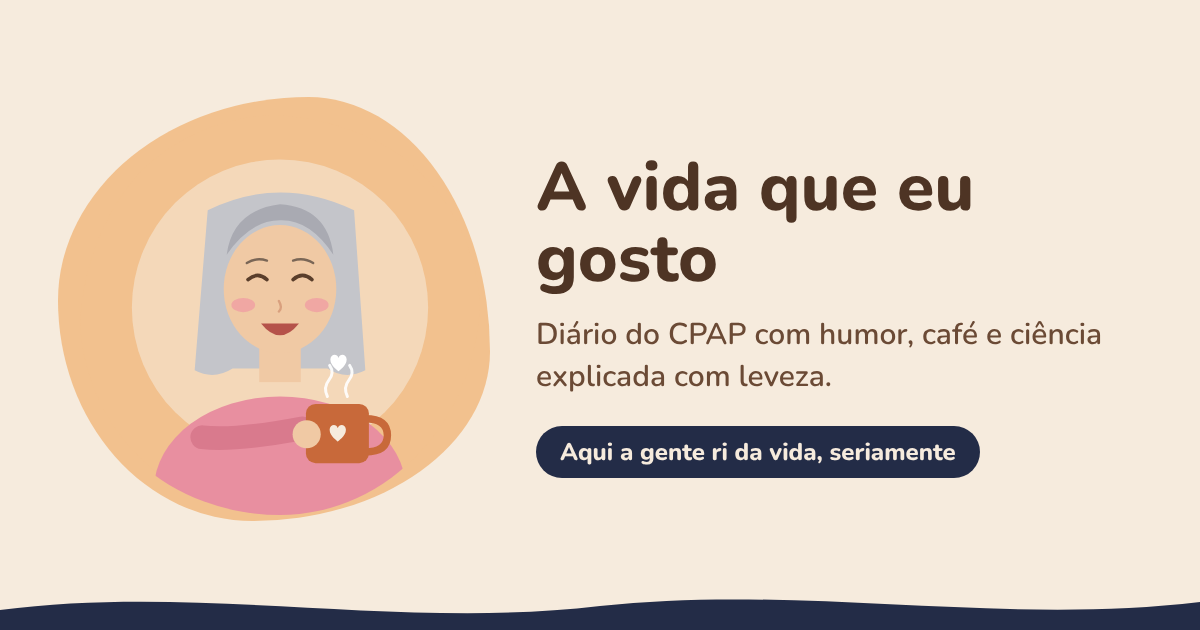
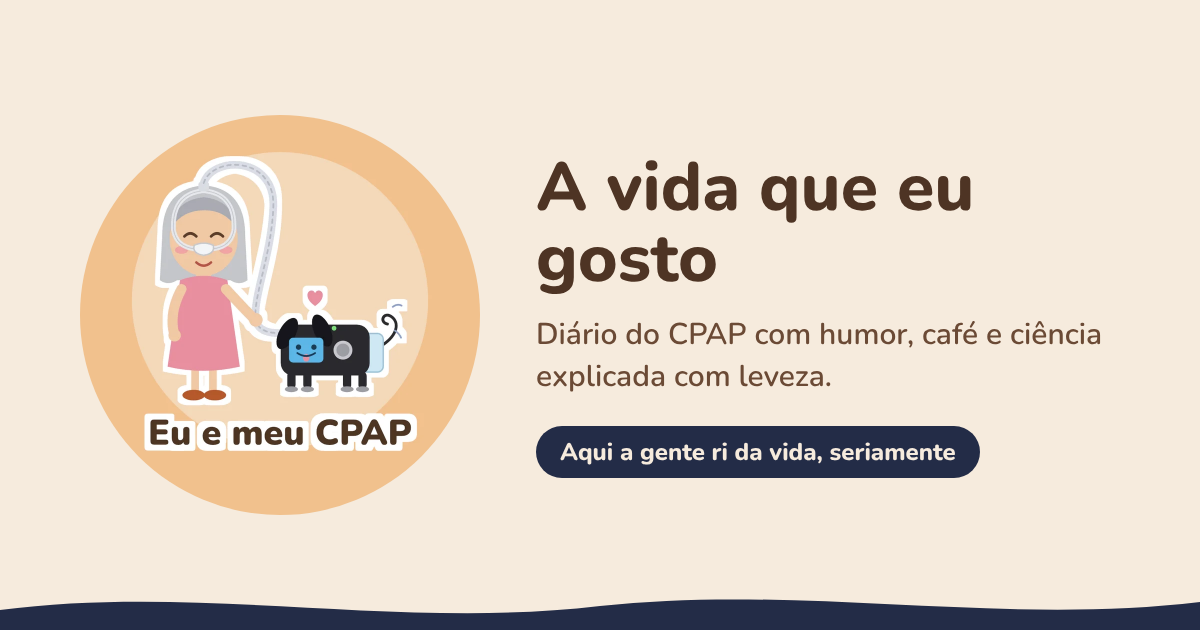
Prévia de compartilhamento com a nova personagem
Claude-Session: https://claude.ai/code/session_0176bRG73tLbwxMzLRLychuE

Changed region(s): [[0.0308, 0.1508, 0.4317, 0.8444], [0.37, 0.3016, 0.4008, 0.4524]]

diff --git a/aprendizados.html b/aprendizados.html
@@ -14,7 +14,7 @@
   <meta property="og:image" content="https://vidaqueeugosto.vercel.app/img/compartilhar.png">
   <meta property="og:image:width" content="1200">
   <meta property="og:image:height" content="630">
-  <meta property="og:image:alt" content="Ilustração da Vera sorrindo com uma caneca de café, ao lado do título A vida que eu gosto">
+  <meta property="og:image:alt" content="Ilustração da Vera passeando com o CPAP, que virou um cachorrinho, ao lado do título A vida que eu gosto">
   <meta name="twitter:card" content="summary_large_image">
   <link rel="icon" href="img/avatar.svg" type="image/svg+xml">
   <link rel="preconnect" href="https://fonts.googleapis.com">

diff --git a/ciencia.html b/ciencia.html
@@ -14,7 +14,7 @@
   <meta property="og:image" content="https://vidaqueeugosto.vercel.app/img/compartilhar.png">
   <meta property="og:image:width" content="1200">
   <meta property="og:image:height" content="630">
-  <meta property="og:image:alt" content="Ilustração da Vera sorrindo com uma caneca de café, ao lado do título A vida que eu gosto">
+  <meta property="og:image:alt" content="Ilustração da Vera passeando com o CPAP, que virou um cachorrinho, ao lado do título A vida que eu gosto">
   <meta name="twitter:card" content="summary_large_image">
   <link rel="icon" href="img/avatar.svg" type="image/svg+xml">
   <link rel="preconnect" href="https://fonts.googleapis.com">

diff --git a/diario.html b/diario.html
@@ -14,7 +14,7 @@
   <meta property="og:image" content="https://vidaqueeugosto.vercel.app/img/compartilhar.png">
   <meta property="og:image:width" content="1200">
   <meta property="og:image:height" content="630">
-  <meta property="og:image:alt" content="Ilustração da Vera sorrindo com uma caneca de café, ao lado do título A vida que eu gosto">
+  <meta property="og:image:alt" content="Ilustração da Vera passeando com o CPAP, que virou um cachorrinho, ao lado do título A vida que eu gosto">
   <meta name="twitter:card" content="summary_large_image">
   <link rel="icon" href="img/avatar.svg" type="image/svg+xml">
   <link rel="preconnect" href="https://fonts.googleapis.com">

diff --git a/escolha.html b/escolha.html
@@ -14,7 +14,7 @@
   <meta property="og:image" content="https://vidaqueeugosto.vercel.app/img/compartilhar.png">
   <meta property="og:image:width" content="1200">
   <meta property="og:image:height" content="630">
-  <meta property="og:image:alt" content="Ilustração da Vera sorrindo com uma caneca de café, ao lado do título A vida que eu gosto">
+  <meta property="og:image:alt" content="Ilustração da Vera passeando com o CPAP, que virou um cachorrinho, ao lado do título A vida que eu gosto">
   <meta name="twitter:card" content="summary_large_image">
   <link rel="icon" href="img/avatar.svg" type="image/svg+xml">
   <link rel="preconnect" href="https://fonts.googleapis.com">

diff --git a/index.html b/index.html
@@ -14,7 +14,7 @@
   <meta property="og:image" content="https://vidaqueeugosto.vercel.app/img/compartilhar.png">
   <meta property="og:image:width" content="1200">
   <meta property="og:image:height" content="630">
-  <meta property="og:image:alt" content="Ilustração da Vera sorrindo com uma caneca de café, ao lado do título A vida que eu gosto">
+  <meta property="og:image:alt" content="Ilustração da Vera passeando com o CPAP, que virou um cachorrinho, ao lado do título A vida que eu gosto">
   <meta name="twitter:card" content="summary_large_image">
   <link rel="icon" href="img/avatar.svg" type="image/svg+xml">
   <link rel="preconnect" href="https://fonts.googleapis.com">

diff --git a/sobre.html b/sobre.html
@@ -14,7 +14,7 @@
   <meta property="og:image" content="https://vidaqueeugosto.vercel.app/img/compartilhar.png">
   <meta property="og:image:width" content="1200">
   <meta property="og:image:height" content="630">
-  <meta property="og:image:alt" content="Ilustração da Vera sorrindo com uma caneca de café, ao lado do título A vida que eu gosto">
+  <meta property="og:image:alt" content="Ilustração da Vera passeando com o CPAP, que virou um cachorrinho, ao lado do título A vida que eu gosto">
   <meta name="twitter:card" content="summary_large_image">
   <link rel="icon" href="img/avatar.svg" type="image/svg+xml">
   <link rel="preconnect" href="https://fonts.googleapis.com">
